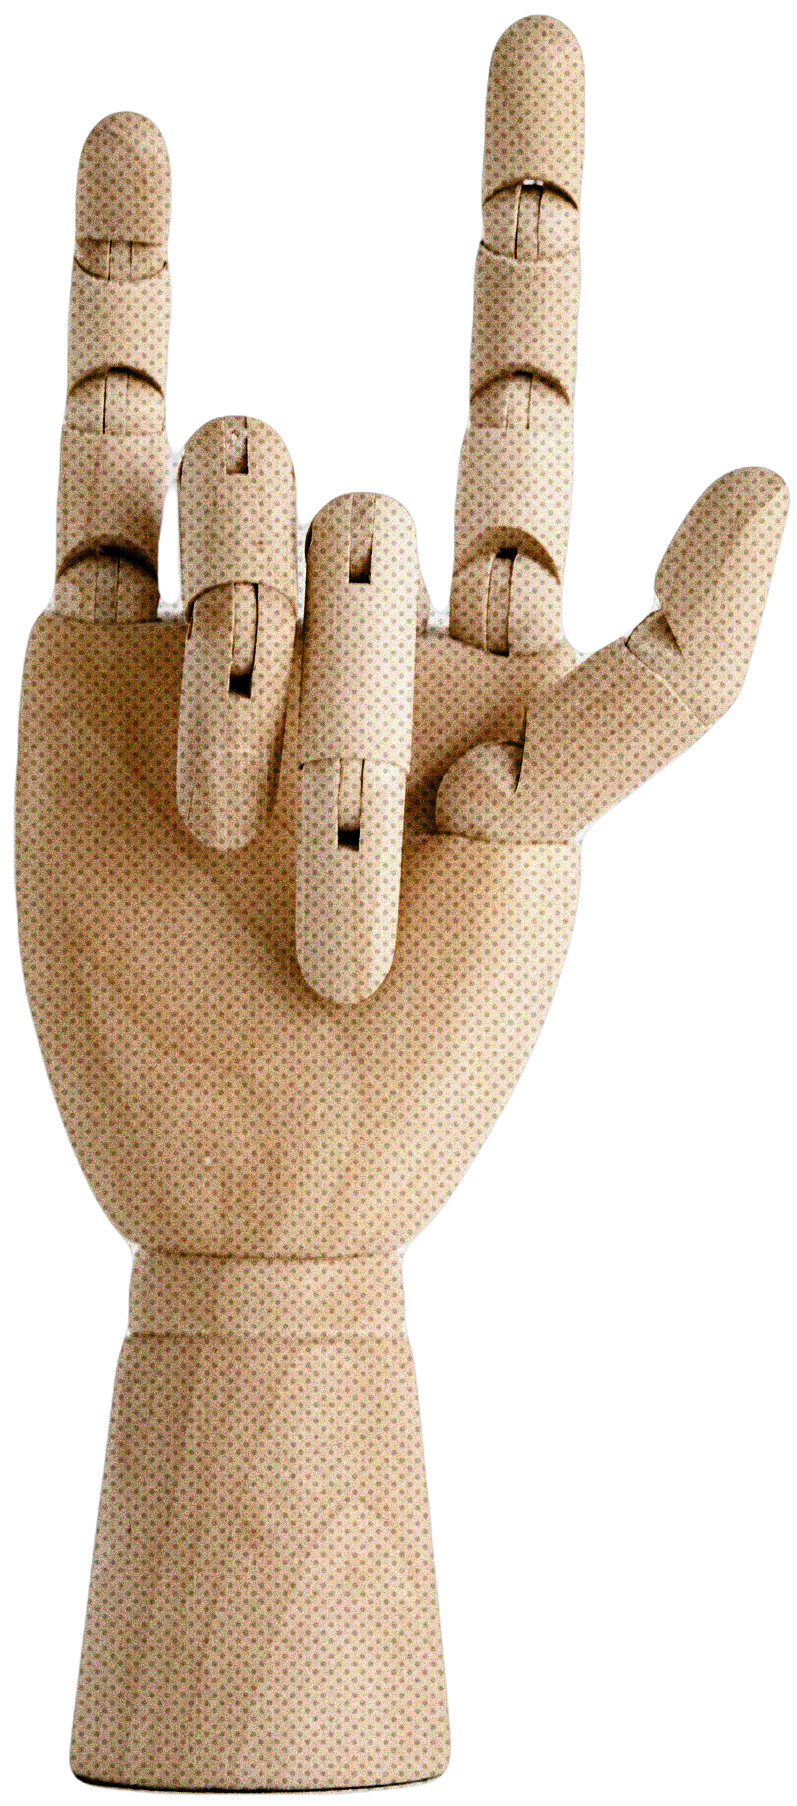
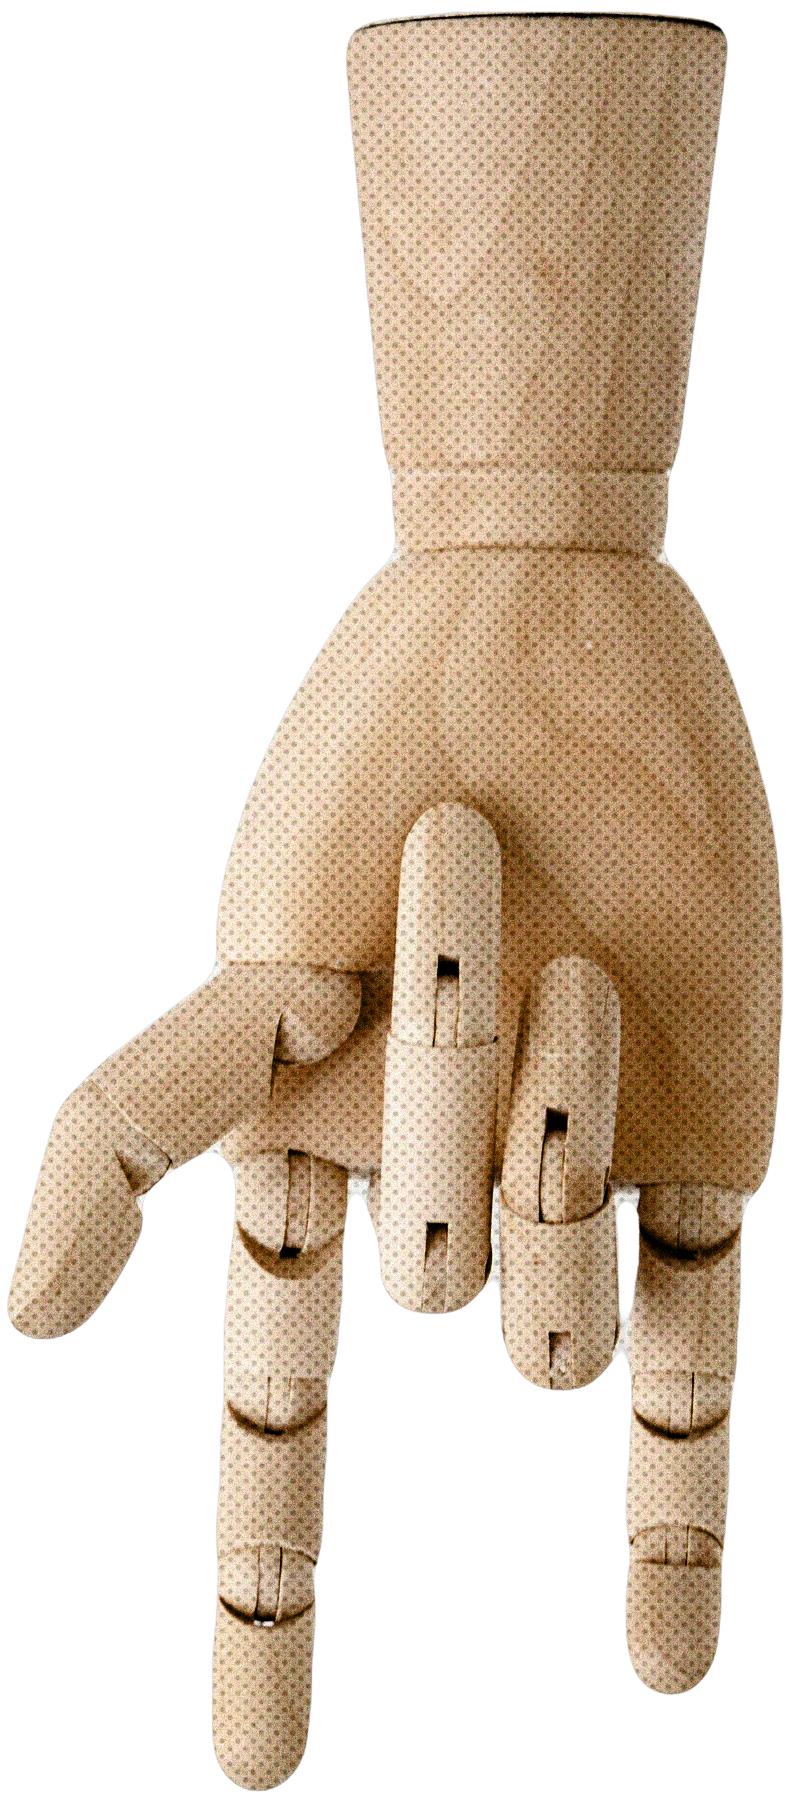
dont translate, need to make live feed

diff --git a/app/templates/translator.html b/app/templates/translator.html
@@ -9,9 +9,8 @@
 
 <div class="otherThanHomeCtn translationPage">
 
-  <div class="gestureHand">
-    <img src="{{url_for('static', filename='images/sign3.png')}}" alt="" aria-hidden="true" class=""/>
-  </div>
+  <img src="{{url_for('static', filename='images/sign3.png')}}" alt="" aria-hidden="true" class="gestureHand"/>
+  
 
   <h1>Translator</h1>
 
@@ -20,16 +19,19 @@
     <h4>JSL to Text</h4>
     <p>Using your device's camera, SignSync captures live sign language gestures and displays the corresponding English text translation in real time.</p>
 
-    <div class="translation">
+  </div>
 
+  <div class="translationCtn">
+    <p>Translated Video</p>
+    <div class="translation">
       {% if translation %}
         <span>{{translation}}</span>
       {% else %} 
         <span class="greyOutText">Ready to translate</span>
       {% endif %} 
     </div>
-
   </div>
+  
   
   <div class="textVideoCtn">
 
@@ -45,8 +47,11 @@
     {% if translation %}
     <video muted autoplay controls>
       <source src="{{ url_for('static', filename='videos/' + translation + '.mp4') }}">
-    </video>
+      <!-- <source src="{{ url_for('static', filename='videos/bannerVid.mp4') }}"> -->
+    </video>    
     {% endif %} 
+
+    
   </div>
 
   

diff --git a/app/static/css/app.css b/app/static/css/app.css
@@ -48,8 +48,8 @@ body {
     font-family: 'Rubik';
     font-size: 1.2rem;
 
-    margin-bottom: calc(var(--footer-height) + 100px)
-    
+    margin-bottom: calc(var(--footer-height) + 100px);
+   
 }
 
 
@@ -699,12 +699,22 @@ header .logo{
 }
 
 .translationPage .translation{
-    margin: 3rem 0;
+   
     font-size: 1.6rem;
     padding: 2rem 1rem;
     border: 4px dashed var(--light-gray);
     border-radius: 30px;
     font-weight: 400;
+    max-width: 800px;
+}
+
+.translationCtn{
+    margin: 3rem 0;
+}
+
+.translationCtn p{
+    font-family: 'Rubik';
+    font-weight: 500;
 }
 
 .translationPage .greyOutText{
@@ -752,13 +762,19 @@ label{
     width: 800px;
 }
 
-.translationPage .gestureHand{
-    overflow:hidden;
-}
-.translationPage .gestureHand img{
-    max-width: 800px !important;
-    transform: rotate(-45deg);
+
+.translationPage .gestureHand {
+    width: 600px;
+        
+    transform: rotate(45deg);
     position: absolute;
-    right: -300px;
-    top: 100px;
+    top: 0;
+    right: 250px;
+    z-index: -2;
+}
+
+@media(max-width: 1438px){
+    .translationPage .gestureHand {
+        width: 0;
+    }
 }

diff --git a/app/templates/base.html b/app/templates/base.html
@@ -38,9 +38,9 @@
         {% endblock %}
     </header>
     <main>
-        <div class="">
-            {% block main %}{% endblock %}
-        </div>
+        
+          {% block main %}{% endblock %}
+        
     </main>
     <footer>
         <div class="container">
@@ -77,9 +77,13 @@
           /*ignore just styles*/
           $('b[role="presentation"]').hide();
           $('.select2-selection__arrow').append('<svg xmlns="http://www.w3.org/2000/svg" width="24" height="24" viewBox="0 0 24 24" fill="none" stroke="currentColor" stroke-width="2" stroke-linecap="round" stroke-linejoin="round" data-lucide="search" class="lucide lucide-search"><circle cx="11" cy="11" r="8"></circle><path d="m21 21-4.3-4.3"></path></svg>');
+
+          
       });
 
-      
+
     </script>
+
+
   </body>
 </html>

diff --git a/app/views.py b/app/views.py
@@ -21,16 +21,16 @@ def translator():
     form.select_field.choices = getSearchChoices()  
     
     if form.validate_on_submit():
-        selected_state = form.select_field.data
+        selected_text = form.select_field.data
+        #mak query with selected text
 
-
-        #query database
-        if selected_state == 'Ohio':
+        #query database here
+        if selected_text == 'Ohio':
             translation = "pets"
-        elif selected_state == 'Alaska':
+        elif selected_text == 'Alaska':
             translation = "snacks"
         else:
-            translation = "sunny"
+            translation = """The sun"""
             
         return render_template('translator.html', form=form, translation=translation)
          
